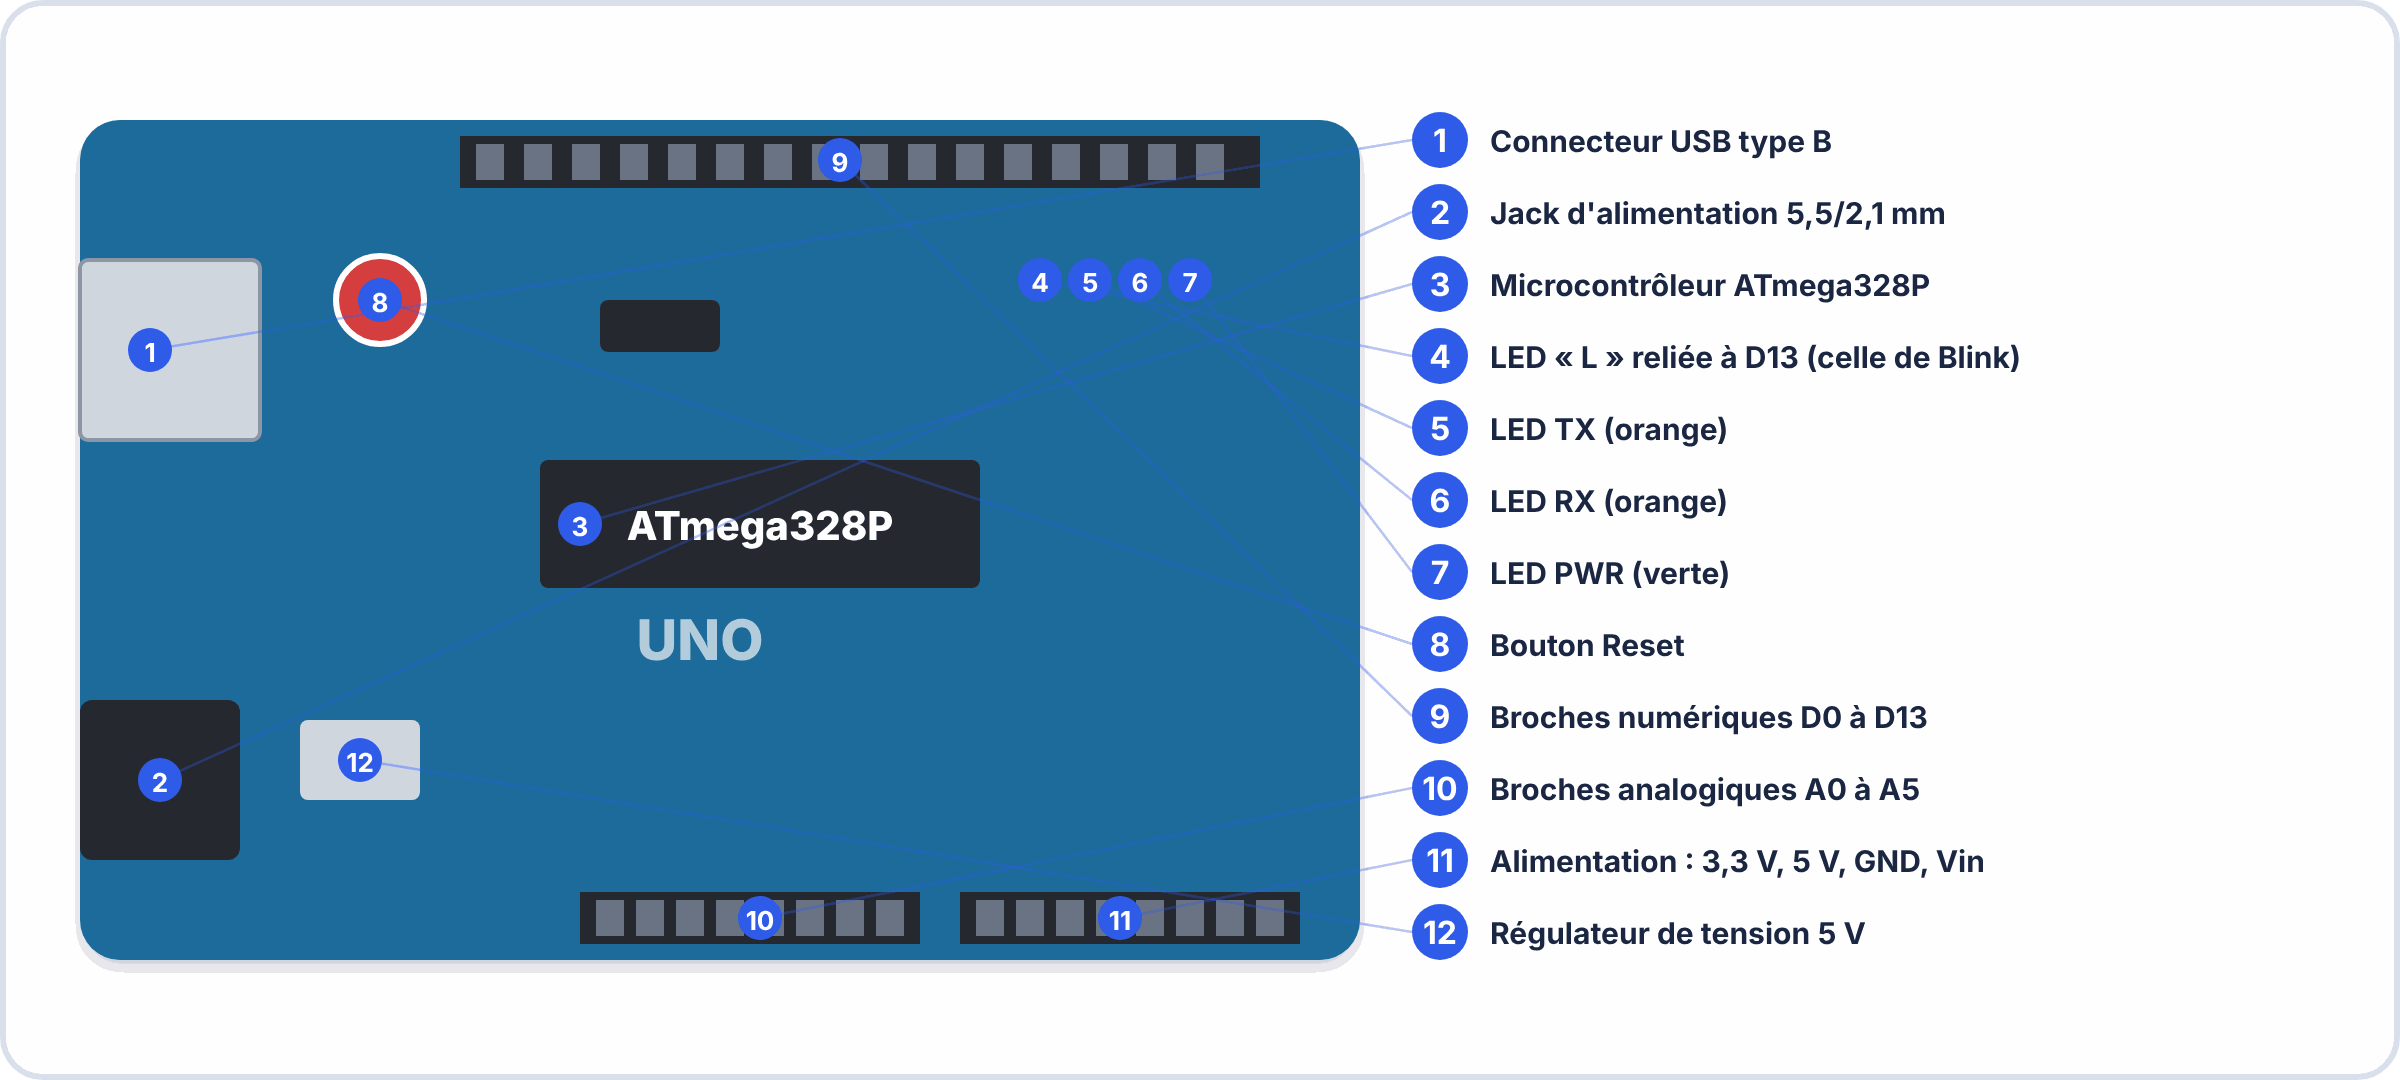
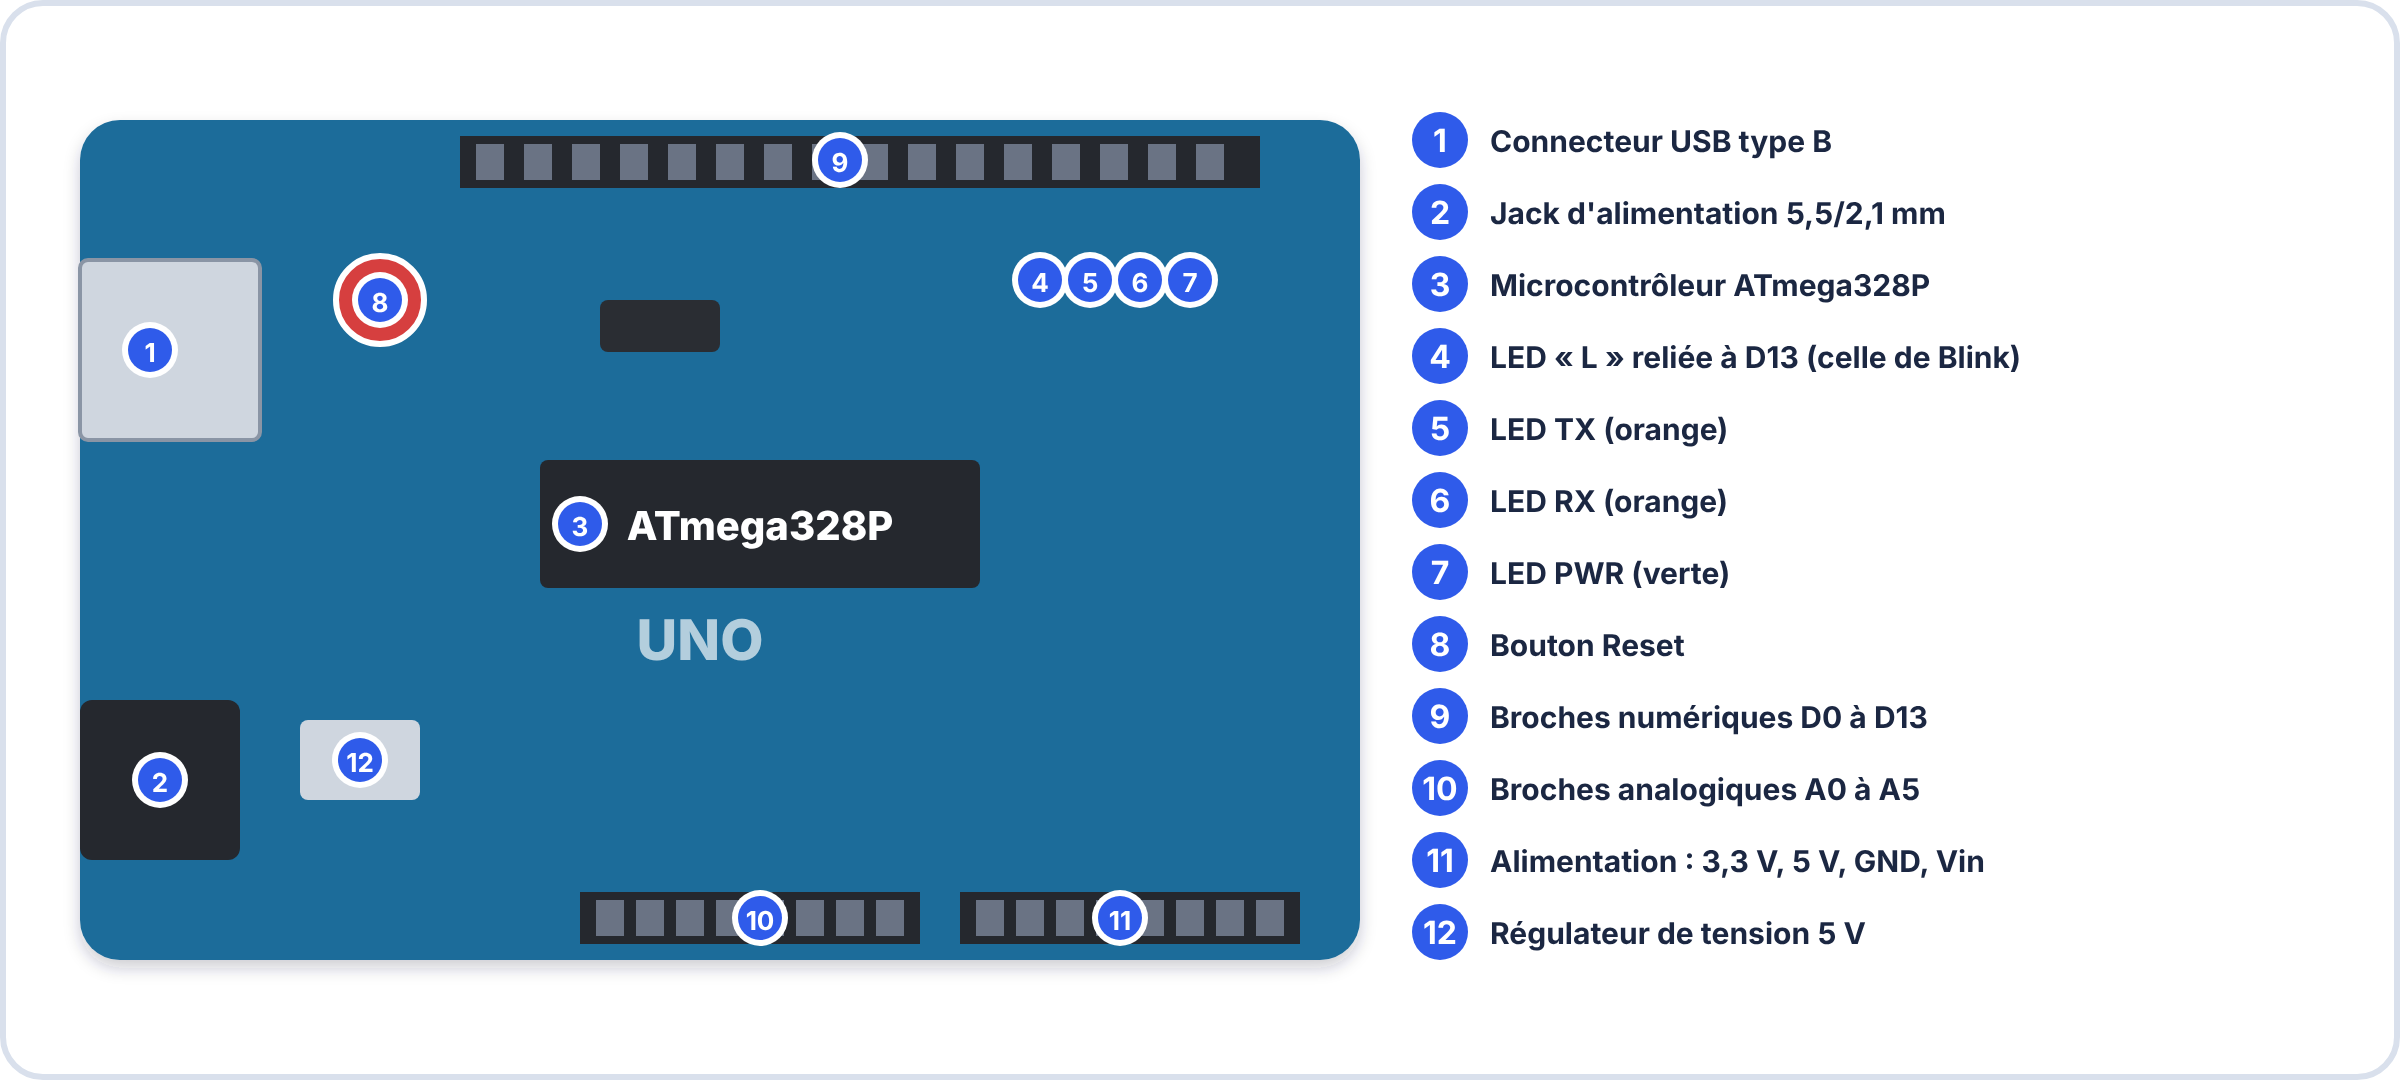
Anatomie de l'Arduino Uno : suppression des traits bleu sur bleu, pastilles cerclées de blanc
Claude-Session: https://claude.ai/code/session_018Ln2Xo12prChdSPrkdSn9D

diff --git a/outils/illustrations-e2/figs_sec7.py b/outils/illustrations-e2/figs_sec7.py
@@ -14,7 +14,7 @@ def f_uno():
     o += '<rect x="150" y="360" width="60" height="40" rx="4" fill="#cfd6df"/>' + T(350, 330, "UNO", 28, 800, "#ffffffaa") + '<rect x="300" y="150" width="60" height="26" rx="4" fill="#2a2d33"/>'
     items = [(75, 175, "Connecteur USB type B"), (80, 390, "Jack d'alimentation 5,5/2,1 mm"), (290, 262, "Microcontrôleur ATmega328P"), (520, 140, "LED « L » reliée à D13 (celle de Blink)"), (545, 140, "LED TX (orange)"), (570, 140, "LED RX (orange)"), (595, 140, "LED PWR (verte)"), (190, 150, "Bouton Reset"), (420, 80, "Broches numériques D0 à D13"), (380, 459, "Broches analogiques A0 à A5"), (560, 459, "Alimentation : 3,3 V, 5 V, GND, Vin"), (180, 380, "Régulateur de tension 5 V")]
     for n, (px, py, t) in enumerate(items, 1):
-        y = 70 + (n - 1) * 36; o += badge(720, y, n, BLUE, 14) + T(745, y + 6, t, 15, 700, INK, "start") + f'<line x1="{px}" y1="{py}" x2="706" y2="{y}" stroke="{BLUE}" stroke-width="1.3" opacity=".35"/>' + badge(px, py, n, BLUE, 11)
+        y = 70 + (n - 1) * 36; o += badge(720, y, n, BLUE, 14) + T(745, y + 6, t, 15, 700, INK, "start") + f'<circle cx="{px}" cy="{py}" r="14" fill="#fff"/>' + badge(px, py, n, BLUE, 11)
     return figure(W, 540, o)
 
 
